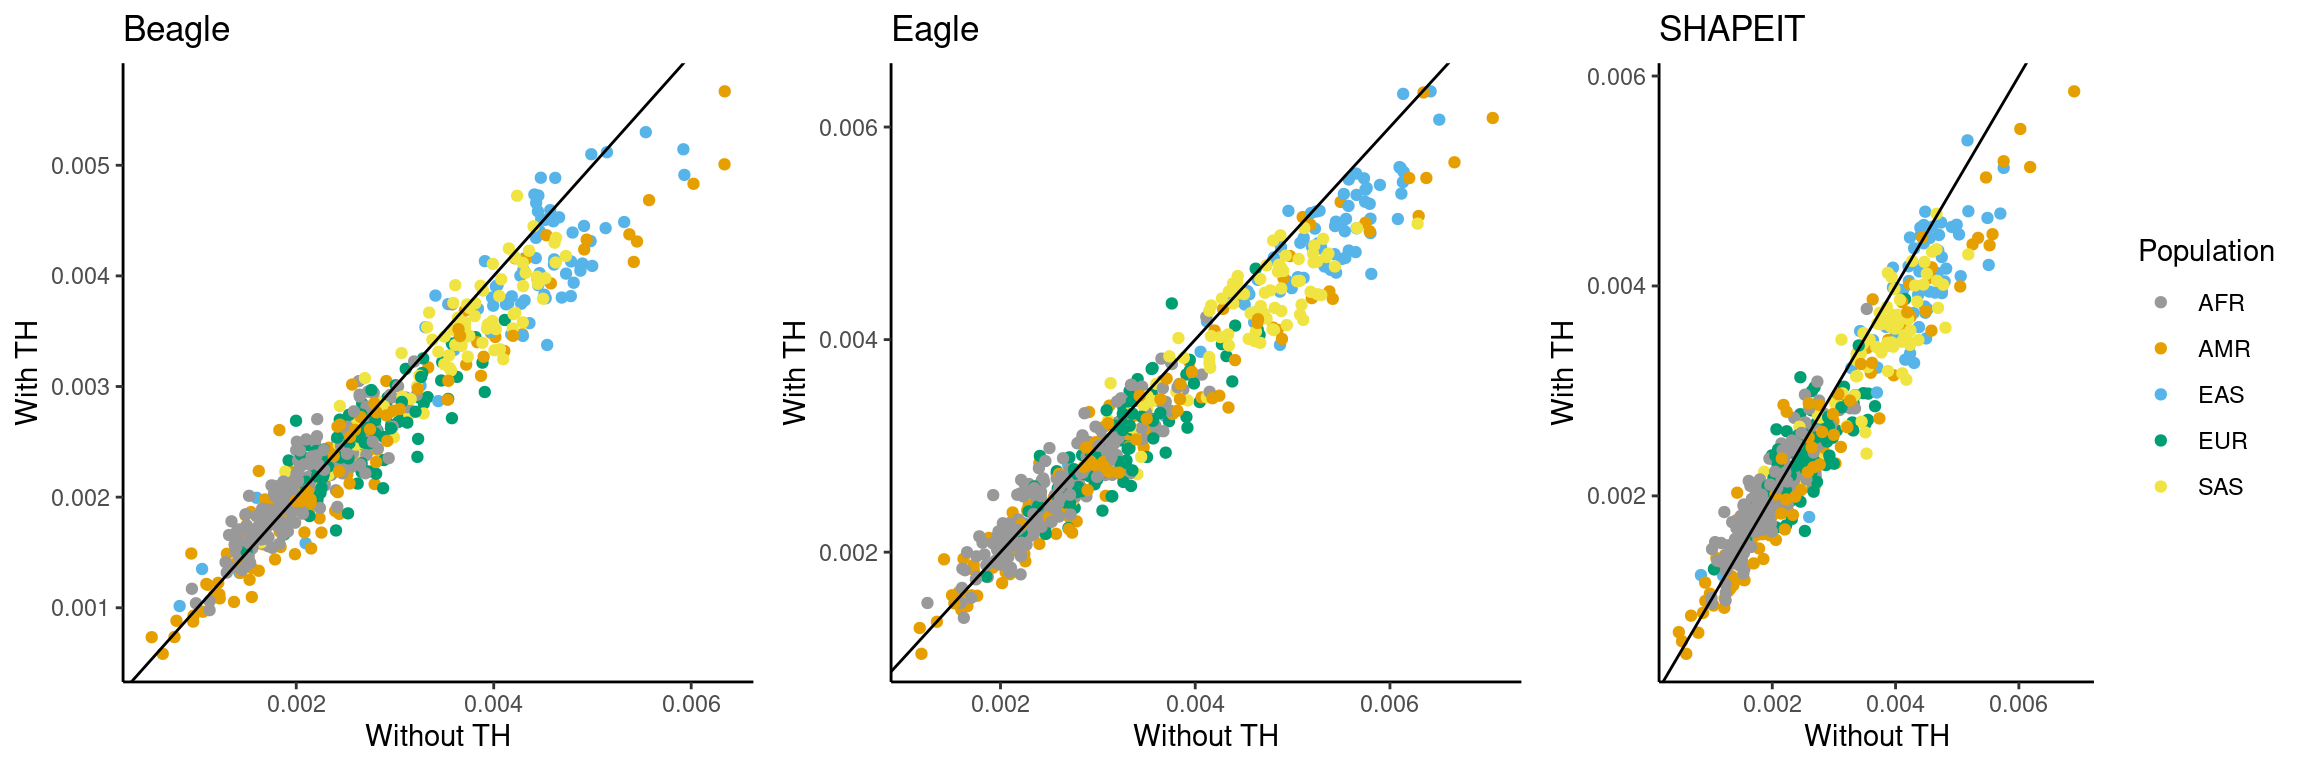
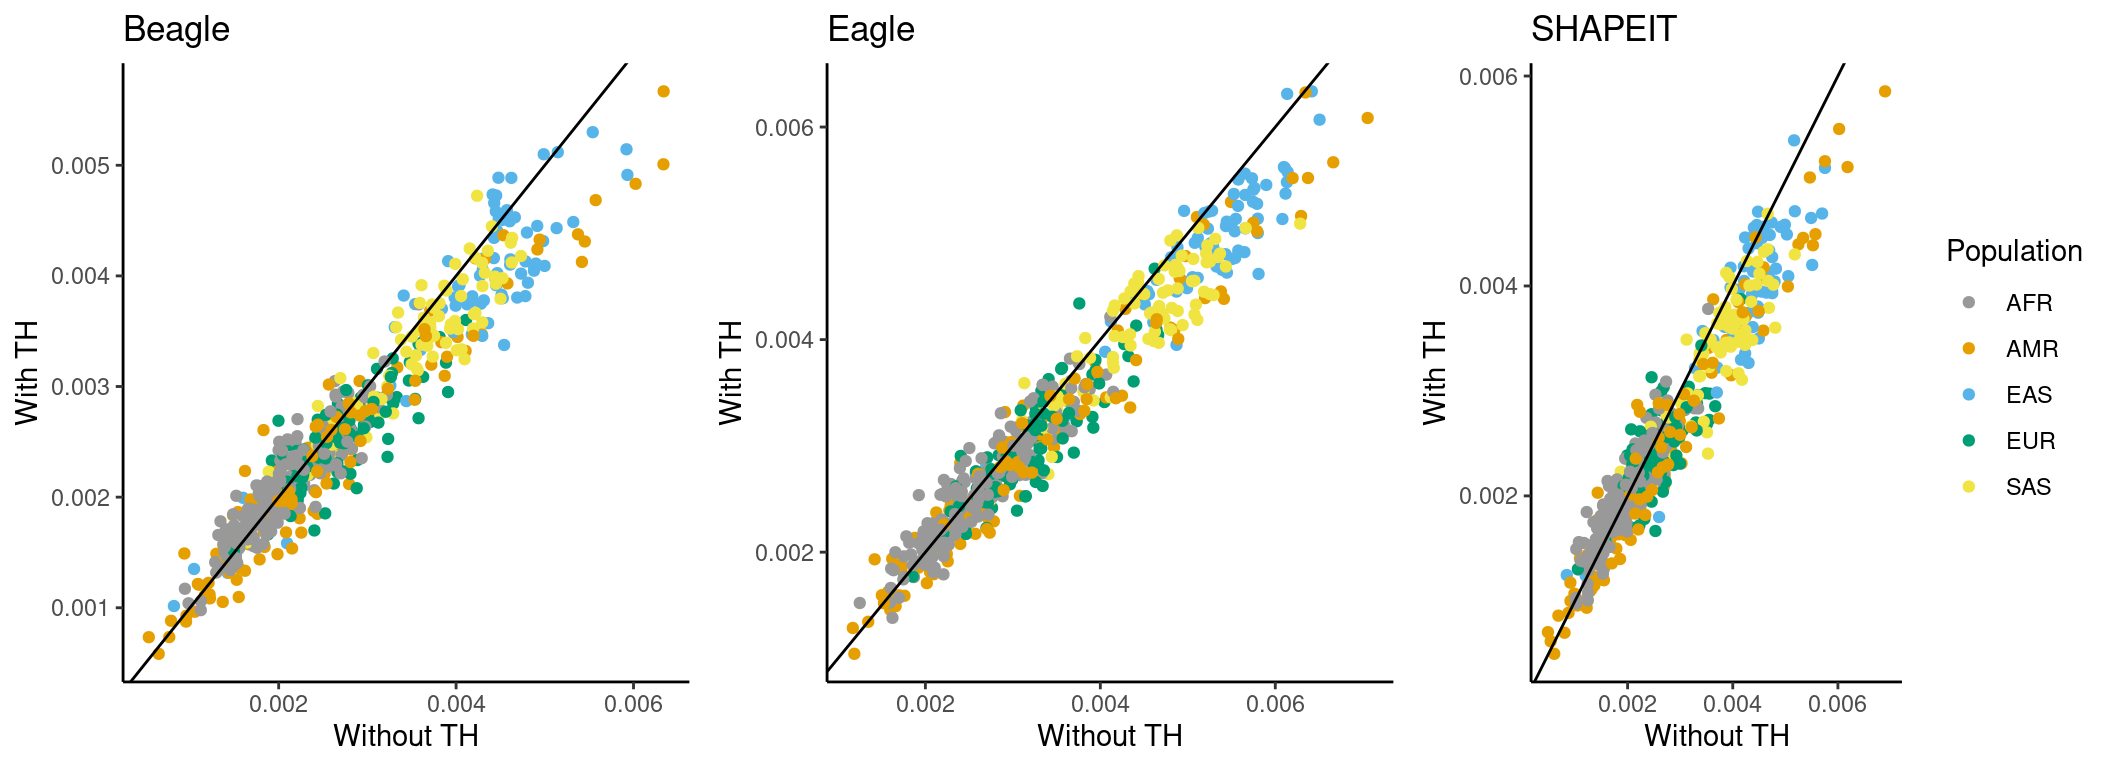
Build site.

diff --git a/docs/trio_no_th.html b/docs/trio_no_th.html
@@ -521,15 +521,15 @@ project makes it easier to run your code on other machines.</p>
 <div class="panel panel-default">
 <div class="panel-heading">
 <p class="panel-title">
-<a data-toggle="collapse" data-parent="#workflowr-checks" href="#strongRepositoryversionstrongahrefhttpsgithubcomtheandybphasingcleantree7b1f163ed3224d2c0ace36907edeaa8c1acb70e7targetblank7b1f163a">
+<a data-toggle="collapse" data-parent="#workflowr-checks" href="#strongRepositoryversionstrongahrefhttpsgithubcomtheandybphasingcleantreebd837101e39e7549f47f51c1b9157d834a5909a9targetblankbd83710a">
 <span class="glyphicon glyphicon-ok text-success"
 aria-hidden="true"></span> <strong>Repository version:</strong>
-<a href="https://github.com/theandyb/phasing_clean/tree/7b1f163ed3224d2c0ace36907edeaa8c1acb70e7" target="_blank">7b1f163</a>
+<a href="https://github.com/theandyb/phasing_clean/tree/bd837101e39e7549f47f51c1b9157d834a5909a9" target="_blank">bd83710</a>
 </a>
 </p>
 </div>
 <div
[2 lines of base64/hex data omitted]
 class="panel-collapse collapse">
 <div class="panel-body">
 <p>
@@ -539,7 +539,7 @@ reproducibility.
 </p>
 <p>
 The results in this page were generated with repository version
-<a href="https://github.com/theandyb/phasing_clean/tree/7b1f163ed3224d2c0ace36907edeaa8c1acb70e7" target="_blank">7b1f163</a>.
+<a href="https://github.com/theandyb/phasing_clean/tree/bd837101e39e7549f47f51c1b9157d834a5909a9" target="_blank">bd83710</a>.
 See the <em>Past versions</em> tab to see a history of the changes made
 to the R Markdown and HTML files.
 </p>
@@ -679,6 +679,40 @@ Message
 </tr>
 </thead>
 <tbody>
+<tr>
+<td>
+Rmd
+</td>
+<td>
+<a href="https://github.com/theandyb/phasing_clean/blob/bd837101e39e7549f47f51c1b9157d834a5909a9/analysis/trio_no_th.Rmd" target="_blank">bd83710</a>
+</td>
+<td>
+Andy Beck
+</td>
+<td>
+2024-06-17
+</td>
+<td>
+wflow_publish("analysis/trio_no_th.Rmd")
+</td>
+</tr>
+<tr>
+<td>
+html
+</td>
+<td>
+<a href="https://rawcdn.githack.com/theandyb/phasing_clean/60acca4afd508dcce36a39603f1d834cf69449e9/docs/trio_no_th.html" target="_blank">60acca4</a>
+</td>
+<td>
+Andy Beck
+</td>
+<td>
+2024-06-17
+</td>
+<td>
+Build site.
+</td>
+</tr>
 <tr>
 <td>
 Rmd
@@ -1129,7 +1163,7 @@ while more most probands we observe more flips in Beagle than in Eagle.
 Now, if we plot the error rates for each method acrss the datasets, we
 observe:</p>
 <pre class="r"><code>cross_df_plots(df_switch, df_switch_th, &quot;other&quot;)</code></pre>
-<p><img src="figure/trio_no_th.Rmd/unnamed-chunk-8-1.png" width="1152" style="display: block; margin: auto;" /></p>
+<p><img src="figure/trio_no_th.Rmd/unnamed-chunk-8-1.png" width="1056" style="display: block; margin: auto;" /></p>
 <p>
 <button type="button" class="btn btn-default btn-xs btn-workflowr btn-workflowr-fig" data-toggle="collapse" data-target="#fig-unnamed-chunk-8-1">
 Past versions of unnamed-chunk-8-1.png
@@ -1179,7 +1213,7 @@ Andy Beck
 </div>
 </div>
 <pre class="r"><code>cross_df_plots(df_switch, df_switch_th, &quot;flip&quot;)</code></pre>
-<p><img src="figure/trio_no_th.Rmd/unnamed-chunk-8-2.png" width="1152" style="display: block; margin: auto;" /></p>
+<p><img src="figure/trio_no_th.Rmd/unnamed-chunk-8-2.png" width="1056" style="display: block; margin: auto;" /></p>
 <p>
 <button type="button" class="btn btn-default btn-xs btn-workflowr btn-workflowr-fig" data-toggle="collapse" data-target="#fig-unnamed-chunk-8-2">
 Past versions of unnamed-chunk-8-2.png
